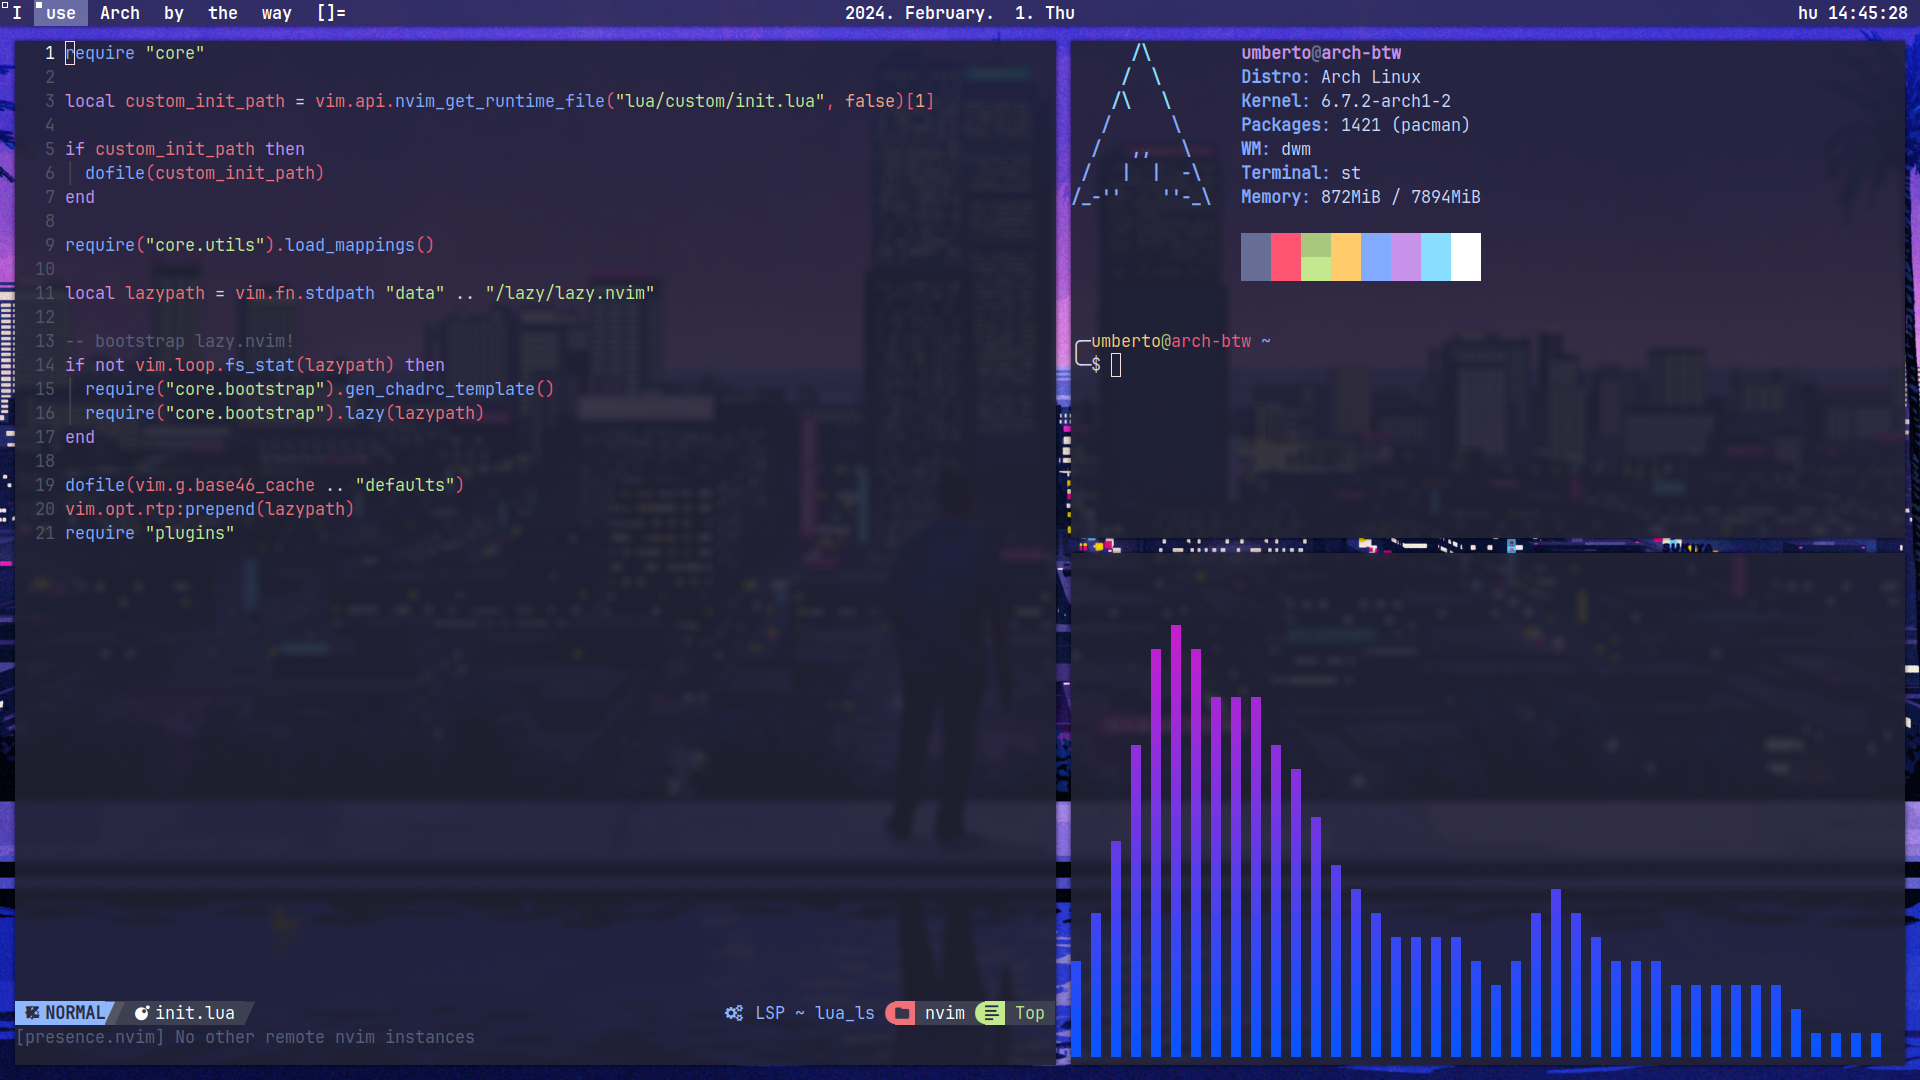
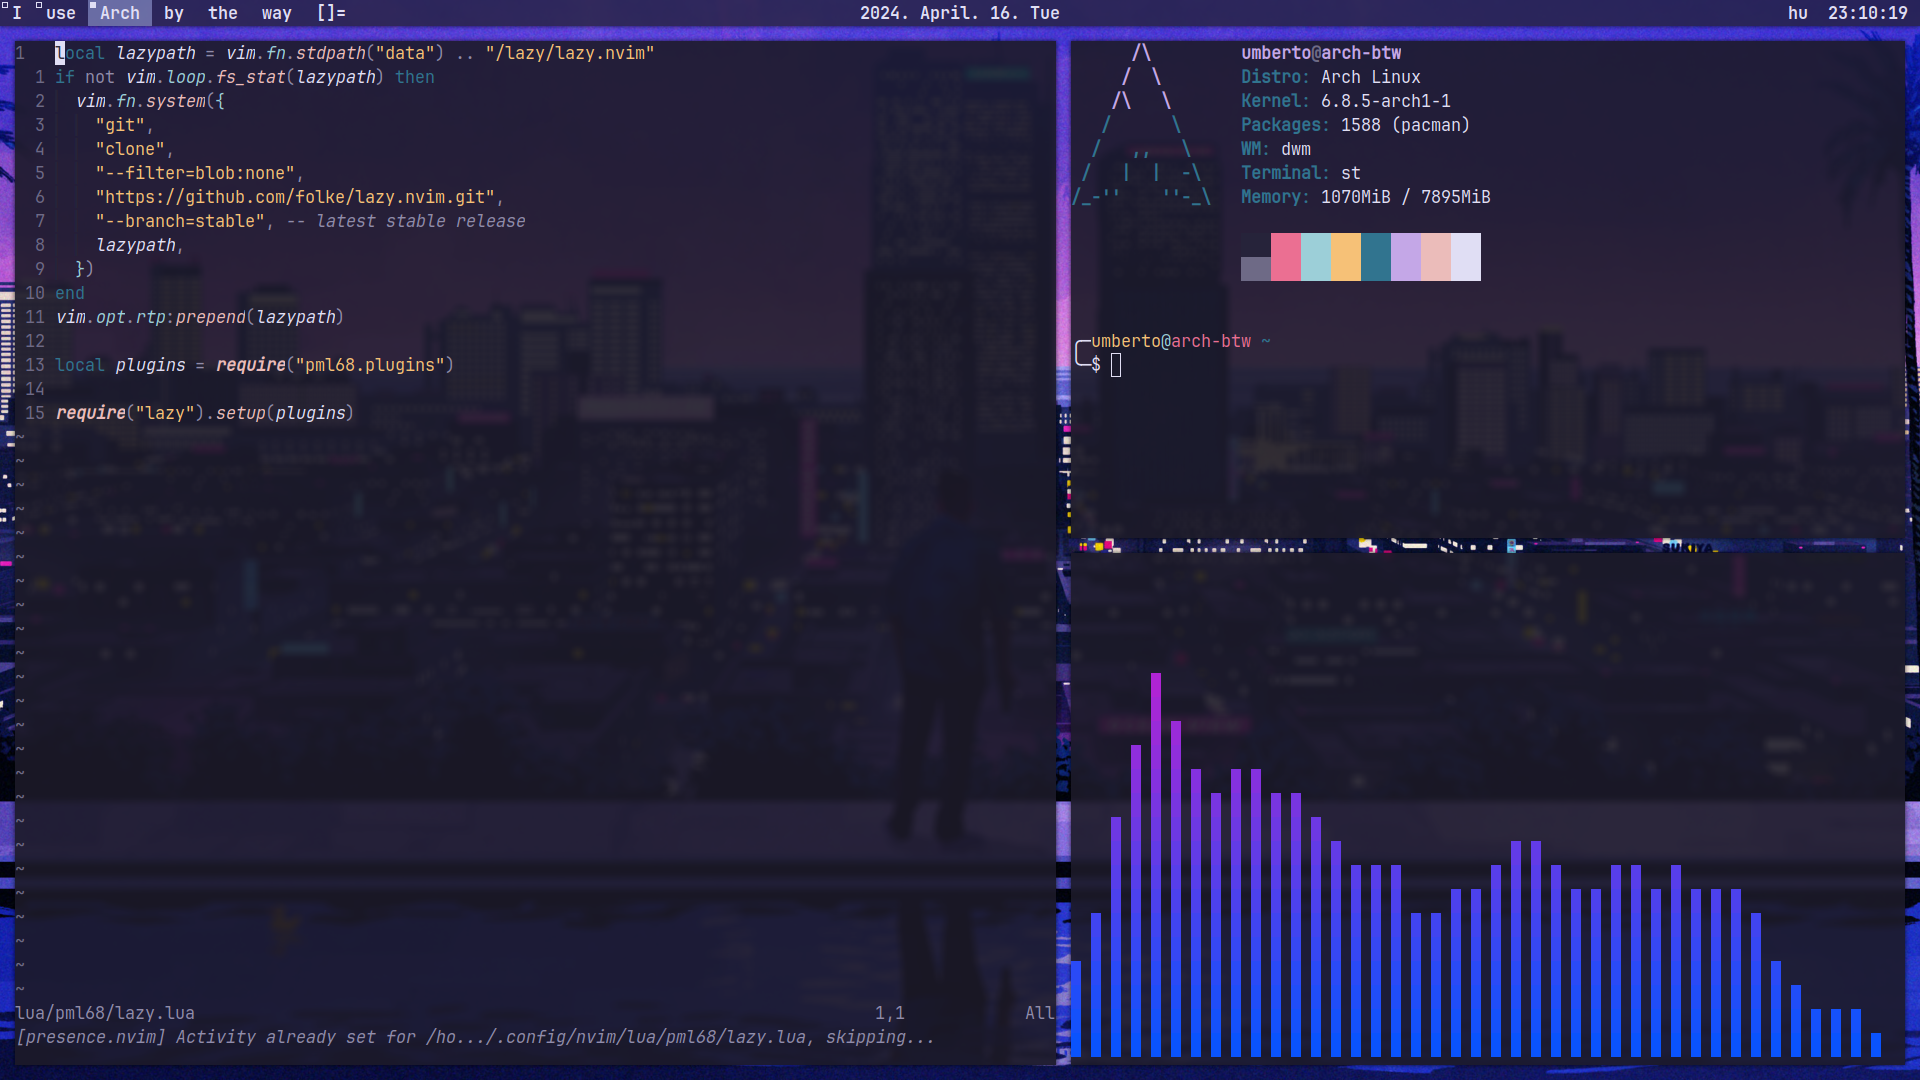
feat: switch from Palenight theme to Rosé Pine

diff --git a/st/config.def.h b/st/config.def.h
@@ -97,43 +97,38 @@ unsigned int tabspaces = 8;
 float alpha = 0.9;
 
 /* Terminal colors (16 first used in escape sequence) */
+
 static const char *colorname[] = {
-    /* 8 normal colors */
-    "#676E95",
-    "#FF5572",
-    "#A9C77D",
-    "#FFCB6B",
-    "#82AAFF",
-    "#C792EA",
-    "#89DDFF",
-    "#FFFFFF",
-
-    /* 8 bright colors */
-    "#676E95",
-    "#FF5572",
-    "#C3E88D",
-    "#FFCB6B",
-    "#82AAFF",
-    "#C792EA",
-    "#89DDFF",
-    "#FFFFFF",
-
+    "#26233a",
+    "#eb6f92",
+    "#9ccfd8",
+    "#f6c177",
+    "#31748f",
+    "#c4a7e7",
+    "#ebbcba",
+    "#e0def4",
+    "#6e6a86",
+    "#eb6f92",
+    "#9ccfd8",
+    "#f6c177",
+    "#31748f",
+    "#c4a7e7",
+    "#ebbcba",
+    "#e0def4",
     [255] = 0,
-
     /* more colors can be added after 255 to use with DefaultXX */
-    [256] = "#CDD6F4",
-    [257] = "#1E1E2E",
-    [258] = "#F5E0DC",
+    [256] = "#191724",
 };
+
 
 /*
  * Default colors (colorname index)
  * foreground, background, cursor, reverse cursor
  */
-unsigned int defaultfg = 256;
-unsigned int defaultbg = 257;
-unsigned int defaultcs = 258;
-static unsigned int defaultrcs = 258;
+unsigned int defaultbg = 256;
+unsigned int defaultfg = 7;
+unsigned int defaultcs = 7;
+unsigned int defaultrcs = 7;
 
 /*
  * Default shape of cursor

diff --git a/st/config.h b/st/config.h
@@ -97,43 +97,38 @@ unsigned int tabspaces = 8;
 float alpha = 0.9;
 
 /* Terminal colors (16 first used in escape sequence) */
+
 static const char *colorname[] = {
-    /* 8 normal colors */
-    "#676E95",
-    "#FF5572",
-    "#A9C77D",
-    "#FFCB6B",
-    "#82AAFF",
-    "#C792EA",
-    "#89DDFF",
-    "#FFFFFF",
-
-    /* 8 bright colors */
-    "#676E95",
-    "#FF5572",
-    "#C3E88D",
-    "#FFCB6B",
-    "#82AAFF",
-    "#C792EA",
-    "#89DDFF",
-    "#FFFFFF",
-
+    "#26233a",
+    "#eb6f92",
+    "#9ccfd8",
+    "#f6c177",
+    "#31748f",
+    "#c4a7e7",
+    "#ebbcba",
+    "#e0def4",
+    "#6e6a86",
+    "#eb6f92",
+    "#9ccfd8",
+    "#f6c177",
+    "#31748f",
+    "#c4a7e7",
+    "#ebbcba",
+    "#e0def4",
     [255] = 0,
-
     /* more colors can be added after 255 to use with DefaultXX */
-    [256] = "#CDD6F4",
-    [257] = "#1E1E2E",
-    [258] = "#F5E0DC",
+    [256] = "#191724",
 };
+
 
 /*
  * Default colors (colorname index)
  * foreground, background, cursor, reverse cursor
  */
-unsigned int defaultfg = 256;
-unsigned int defaultbg = 257;
-unsigned int defaultcs = 258;
-static unsigned int defaultrcs = 258;
+unsigned int defaultbg = 256;
+unsigned int defaultfg = 7;
+unsigned int defaultcs = 7;
+unsigned int defaultrcs = 7;
 
 /*
  * Default shape of cursor

diff --git a/dmenu/config.def.h b/dmenu/config.def.h
@@ -1,7 +1,7 @@
 /* See LICENSE file for copyright and license details. */
 /* Default settings; can be overriden by command line. */
 
-static int topbar = 1;      /* -b  option; if 0, dmenu appears at bottom     */
+static int topbar = 1; /* -b  option; if 0, dmenu appears at bottom     */
 static const unsigned int alpha = 0xbe;
 static int centered = 1;    /* -c option; centers dmenu on screen */
 static int min_width = 500; /* minimum width when centered */
@@ -11,15 +11,15 @@ static const char *prompt =
     NULL; /* -p  option; prompt to the left of input field */
 static const char *colors[SchemeLast][2] = {
     /*     fg         bg       */
-    [SchemeNorm] = {"#ffffff", "#1E1E2E"},
-    [SchemeSel] = {"#ffffff", "#575e6e"},
-    [SchemeOut] = {"#ffffff", "#da5748"},
+    [SchemeNorm] = {"#e0def4", "#191724"},
+    [SchemeSel] = {"#e0def4", "#575e6e"},
+    [SchemeOut] = {"#e0def4", "#dde1e7"},
 };
 
 static const unsigned int alphas[SchemeLast][2] = {
-  [SchemeNorm] = { OPAQUE, alpha },
-  [SchemeSel] = { OPAQUE, alpha },
-  [SchemeOut] = { OPAQUE, alpha },
+    [SchemeNorm] = {OPAQUE, alpha},
+    [SchemeSel] = {OPAQUE, alpha},
+    [SchemeOut] = {OPAQUE, alpha},
 };
 
 /* -l and -g options; controls number of lines and columns in grid if > 0 */

diff --git a/dmenu/config.h b/dmenu/config.h
@@ -1,7 +1,7 @@
 /* See LICENSE file for copyright and license details. */
 /* Default settings; can be overriden by command line. */
 
-static int topbar = 1;      /* -b  option; if 0, dmenu appears at bottom     */
+static int topbar = 1; /* -b  option; if 0, dmenu appears at bottom     */
 static const unsigned int alpha = 0xbe;
 static int centered = 1;    /* -c option; centers dmenu on screen */
 static int min_width = 500; /* minimum width when centered */
@@ -11,15 +11,15 @@ static const char *prompt =
     NULL; /* -p  option; prompt to the left of input field */
 static const char *colors[SchemeLast][2] = {
     /*     fg         bg       */
-    [SchemeNorm] = {"#ffffff", "#1E1E2E"},
-    [SchemeSel] = {"#ffffff", "#575e6e"},
-    [SchemeOut] = {"#ffffff", "#da5748"},
+    [SchemeNorm] = {"#e0def4", "#191724"},
+    [SchemeSel] = {"#e0def4", "#575e6e"},
+    [SchemeOut] = {"#e0def4", "#dde1e7"},
 };
 
 static const unsigned int alphas[SchemeLast][2] = {
-  [SchemeNorm] = { OPAQUE, alpha },
-  [SchemeSel] = { OPAQUE, alpha },
-  [SchemeOut] = { OPAQUE, alpha },
+    [SchemeNorm] = {OPAQUE, alpha},
+    [SchemeSel] = {OPAQUE, alpha},
+    [SchemeOut] = {OPAQUE, alpha},
 };
 
 /* -l and -g options; controls number of lines and columns in grid if > 0 */

diff --git a/dwm/config.def.h b/dwm/config.def.h
@@ -10,10 +10,10 @@ static const int splitstatus = 1;       /* 1 for split status items */
 static const char *splitdelim = ";"; /* Character used for separating status */
 static const char *fonts[] = {"JetBrainsMono NF:style=Bold:size=12"};
 static const char dmenufont[] = "JetBrainsMono NF:style=Bold:size=12";
-static const char col_gray3[] = "#ffffff";
-static const char col_gray1[] = "#1E1E2E";
+static const char col_gray3[] = "#e0def4";
+static const char col_gray1[] = "#191724";
 static const char col_gray2[] = "#dde1e7";
-static const char col_gray4[] = "#ffffff";
+static const char col_gray4[] = "#e0def4";
 static const char col_cyan[] = "#575e6e";
 static const unsigned int baralpha = 190;
 static const unsigned int borderalpha = 190;

diff --git a/dwm/config.h b/dwm/config.h
@@ -10,10 +10,10 @@ static const int splitstatus = 1;       /* 1 for split status items */
 static const char *splitdelim = ";"; /* Character used for separating status */
 static const char *fonts[] = {"JetBrainsMono NF:style=Bold:size=12"};
 static const char dmenufont[] = "JetBrainsMono NF:style=Bold:size=12";
-static const char col_gray3[] = "#ffffff";
-static const char col_gray1[] = "#1E1E2E";
+static const char col_gray3[] = "#e0def4";
+static const char col_gray1[] = "#191724";
 static const char col_gray2[] = "#dde1e7";
-static const char col_gray4[] = "#ffffff";
+static const char col_gray4[] = "#e0def4";
 static const char col_cyan[] = "#575e6e";
 static const unsigned int baralpha = 190;
 static const unsigned int borderalpha = 190;

diff --git a/README.md b/README.md
@@ -2,7 +2,7 @@
 
 My personal suckless setup.
 
-- Palenight color scheme and JetBrainsMono Nerd Font by default (colors from [Palenight VSCode Extension](https://github.com/whizkydee/vscode-palenight-theme/))
+- Rosé Pine color scheme and JetBrainsMono Nerd Font by default (colors from [Rosé Pine for st](https://github.com/rose-pine/st))
 - Custom keybindings:
     - Alt+Shift+D: Opens Discord
     - Alt+Shift+F: Opens Firefox
